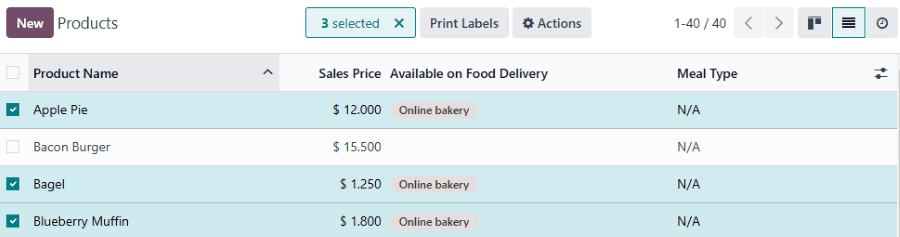
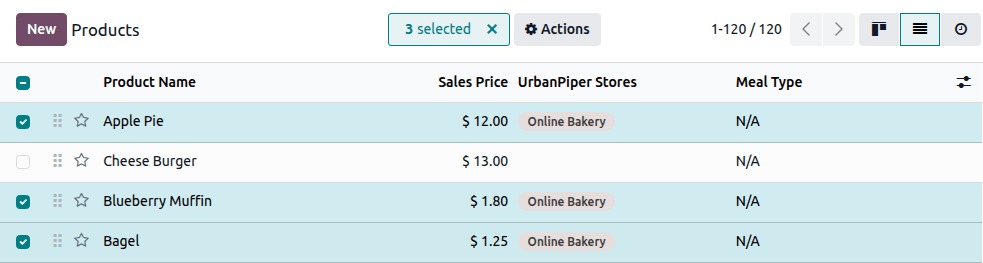
[IMP] pos: update UrbanPiper page for store configuration
This commit updates the UrbanPiper documentation to reflect the recent
store configuration flow changes introduced in odoo/enterprise#111749.

It also updates the list of supported providers and locations with the
latest supported countries and newly added providers.

Task-6427341

diff --git a/content/applications/sales/point_of_sale/restaurant/urban_piper.rst b/content/applications/sales/point_of_sale/restaurant/urban_piper.rst
@@ -21,31 +21,34 @@ Supported providers and locations:
          * - Providers
            - Locations
          * - `Deliveroo <https://deliveroo.co>`_
-           - Belgium, France, Ireland, Italy, Kuwait, United Arab Emirates, United Kingdom
+           - Belgium, France, Hong Kong (China), Ireland, Italy, Kuwait, Qatar, Singapore,
+             United Arab Emirates, United Kingdom, United States
          * - `DoorDash <https://www.doordash.com>`_
            - Australia, Canada, United States
          * - `Glovo <https://glovoapp.com/en>`_
-           - Armenia, Bosnia and Herzegovina, Bulgaria, Croatia, Côte d'Ivoire, Georgia, Italy,
-             Kazakhstan, Kenya, Kyrgyzstan, Moldova, Montenegro, Morocco, Nigeria, Poland, Portugal,
-             Romania, Serbia, Spain, Tunisia, Uganda, Ukraine
+           - Andorra, Armenia, Bosnia and Herzegovina, Bulgaria, Chile, Croatia, Georgia, Ghana,
+             Italy, Kazakhstan, Kenya, Kyrgyzstan, Moldova, Montenegro, Morocco, Nigeria, Poland,
+             Portugal, Romania, Serbia, Sierra Leone, Spain, Tunisia, Uganda, Ukraine
          * - `HungryPanda <https://www.hungrypanda.co>`_
            - Australia, Canada, France, Italy, Japan, New Zealand, Singapore, South Korea, United
              Kingdom, United States
          * - `Just Eat <https://www.just-eat.com>`_
-           - Austria, Belgium, Bulgaria, Canada, Denmark, Germany, Ireland, Israel, Italy,
-             Luxembourg, Poland, Slovakia, Spain, Switzerland, Netherlands, United Kingdom
+           - Australia, Austria, Belgium, Bulgaria, Canada, Denmark, France, Germany, Ireland,
+             Israel, Italy, Luxembourg, Poland, Slovakia, Spain, Switzerland, Netherlands,
+             United Kingdom, United States
          * - `Keeta <https://www.keeta-global.com/AE/en>`_
-           - Bahrain, Brazil, Hong Kong (China), Kuwait, Qatar, Saudi Arabia, United Arab Emirates
-         * - `UberEats <https://www.ubereats.com>`_
-           - Argentina, Australia, Belgium, Canada, Chile, Costa Rica, Denmark, Dominican Republic,
-             Ecuador, El Salvador, Finland, France, Germany, Guatemala, Ireland, Italy, Japan,
-             Kenya, Luxembourg, Mexico, Netherlands, New Zealand, Norway, Panama, Poland, Portugal,
-             South Africa, Spain, Sri Lanka, Sweden, Switzerland, Taiwan (ROC), United Kingdom,
-             United States
+           - Brazil, China, Hong Kong (China), Kuwait, Qatar, Saudi Arabia,
+             United Arab Emirates
+         * - `Uber Eats <https://www.ubereats.com>`_
+           - Australia, Belgium, Canada, Chile, Costa Rica, Dominican Republic,
+             Ecuador, El Salvador, France, Germany, Guatemala, Ireland, Italy,
+             Japan, Kenya, Luxembourg, Mexico, Netherlands, New Zealand, Panama,
+             Poland, Portugal, South Africa, Spain, Sri Lanka, Sweden,
+             Switzerland, Taiwan, United Kingdom, United States
          * - `Wolt <https://wolt.com>`_
            - Albania, Austria, Azerbaijan, Bulgaria, Croatia, Cyprus, Czech Republic, Denmark,
              Estonia, Finland, Georgia, Germany, Greece, Hungary, Iceland, Israel, Japan, Kazakhstan,
-             Kosovo, Latvia, Lithuania, Luxembourg, Malta, North Macedonia, Norway, Poland, Romania,
+             Latvia, Lithuania, Luxembourg, Malta, North Macedonia, Norway, Poland, Romania,
              Serbia, Slovakia, Slovenia, Sweden, Uzbekistan
 
    .. tab:: Regional and national providers: Americas
@@ -58,18 +61,21 @@ Supported providers and locations:
 
          * - Providers
            - Locations
-         * - `Grubhub <https://www.grubhub.com>`_
-           - United States
-         * - `Postmates <https://www.postmates.com>`_
-           - Puerto Rico, United States
          * - `ChowNow <https://get.chownow.com>`_
            - Canada, United States
+         * - `DiDi Food <https://www.didi-food.com/>`_
+           - Colombia, Costa Rica, Dominican Republic, Mexico, Peru
+         * - `Grubhub <https://www.grubhub.com>`_
+           - Australia, Austria, Belgium, Bulgaria, Canada, Switzerland, Germany,
+             Denmark, Spain, France, Ireland, Israel, Italy, Luxembourg,
+             Netherlands, New Zealand, Norway, Poland, Portugal, Romania, United
+             Kingdom, United States
+         * - `Postmates <https://www.postmates.com>`_
+           - United States
          * - `Rappi <https://www.rappi.com>`_
            - Argentina, Brazil, Chile, Colombia, Costa Rica, Ecuador, Mexico, Peru, Uruguay
          * - `SkipTheDishes <https://www.skipthedishes.com/en>`_
-           - Canada (Alberta, British Columbia, Manitoba, New Brunswick, Newfoundland and Labrador,
-             Northwest Territories, Nova Scotia, Ontario, Prince Edward Island, Quebec,
-             Saskatchewan, Yukon)
+           - Canada, United States
 
    .. tab:: Regional and national providers: Middle East and North Africa
 
@@ -82,25 +88,49 @@ Supported providers and locations:
          * - Providers
            - Locations
          * - `Careem <https://www.careem.com/en-AE>`_
-           - Egypt, Kuwait, Morocco, United Arab Emirates
+           - Jordan, Kuwait, Saudi Arabia, United Arab Emirates
          * - `Cari <https://www.cariapp.com>`_
            - Kuwait, Saudi Arabia, United Arab Emirates
          * - `EatEasy <https://www.eateasy.ae>`_
            - United Arab Emirates
+         * - `Enqueue <https://enqueue.tech>`_
+           - Saudi Arabia
+         * - `FoodZapp <https://spryntz.com>`_
+           - United Arab Emirates
          * - `HungerStation <https://hungerstation.com/sa-en>`_
            - Saudi Arabia (115+ regions)
+         * - `InstaShop <http://instashop.com>`_
+           - Egypt, United Arab Emirates
          * - `Jahez <https://www.jahez.net/index-en.html>`_
            - Bahrain, Kuwait, Saudi Arabia
+         * - `Mr Mandoob <https://mrmandoob.com>`_
+           - Saudi Arabia
          * - `Mrsool <https://mrsool.co>`_
-           - Bahrain, Egypt, Saudi Arabia
+           - Egypt, Saudi Arabia
          * - `Ninja <https://ananinja.com/sa/en>`_
-           - Bahrain, Kuwait, Qatar
+           - Bahrain, Kuwait, Qatar, Saudi Arabia, United Arab Emirates
          * - `NoonFood <https://food.noon.com/uae-en>`_
            - Saudi Arabia, United Arab Emirates
+         * - `Radyes <https://lyveglobal.com/>`_
+           - Bahrain, Egypt, India, Jordan, Kuwait, Oman, Qatar, Saudi Arabia,
+             United Arab Emirates
          * - `Rafeeq <https://www.gorafeeq.com/en>`_
            - Qatar
+         * - `Smiles <https://smiles.ae>`_
+           - United Arab Emirates
+         * - `Snoonu <https://www.snoonu.com>`_
+           - Kuwait, Oman, Qatar
+         * - `Talabna <https://talabnapp.com/>`_
+           - United Arab Emirates
          * - `Talabat <https://www.talabat.com/uae>`_
            - Bahrain, Egypt, Iraq, Jordan, Kuwait, Oman, Qatar, Saudi Arabia, United Arab Emirates
+         * - `The Chefz <https://thechefz.co>`_
+           - Saudi Arabia
+         * - `ToYou <https://toyou.io>`_
+           - Saudi Arabia
+         * - `Zyda <https://zyda.com>`_
+           - Bahrain, Egypt, Jordan, Kuwait, Oman, Qatar, Saudi Arabia,
+             United Arab Emirates
 
    .. tab:: Regional and national providers: Asia and Oceania
 
@@ -161,57 +191,74 @@ UrbanPiper credentials
 .. image:: urban_piper/urban-piper-api.png
    :alt: Atlas API access
 
-Point of Sale
--------------
+UrbanPiper Store
+----------------
 
-#. Enable the :guilabel:`Urban Piper` setting:
+Each point of sale is linked to a dedicated UrbanPiper store record that centralizes credentials,
+aggregators, pricing, and schedule-related settings.
 
-   #. Go to the :ref:`POS settings <pos/use/settings>`.
-   #. Scroll down to the :guilabel:`Food Delivery Connector` section.
-   #. Check the :guilabel:`Urban Piper` setting.
+#. Go to :menuselection:`Point of Sale --> Configuration --> UrbanPiper --> Stores`.
+#. Click :guilabel:`New`.
+#. On the store form:
 
-#. Set up UrbanPiper:
+   #. Enter a :guilabel:`Name`.
+   #. Select the :guilabel:`Point of Sale` that will receive online orders.
+   #. Keep the generated :guilabel:`POS Store ID` which links Odoo Store to UrbanPiper.
+   #. Select a :ref:`Preset<pos/urban_piper/Preset>`.
+   #. Set the :guilabel:`Preparation Time`.
+   #. Optionally upload an :guilabel:`Order Notification Sound` in `.mp3` format.
+   #. If the company is based in India, choose the appropriate :guilabel:`Tax Type`.
+#. Open the :guilabel:`Credentials` tab and enter your :ref:`UrbanPiper credentials
+   <pos/urban_piper/credentials>`.
+#. Open the :guilabel:`Aggregators` tab and add one line per delivery platform.
 
-   #. Fill in the :guilabel:`Username` and :guilabel:`Api Key` fields with your :ref:`UrbanPiper
-      credentials <pos/urban_piper/credentials>`.
-   #. Select the desired delivery providers in the :guilabel:`Food Delivery Platforms` field under
-      the :guilabel:`Urban Piper Location` section (i.e., Zomato, Uber Eats).
-#. Save the settings.
-#. Click the :guilabel:`+ Create Store` button. Doing so creates a new location on the UrbanPiper
-   Atlas platform.
+   - Use :guilabel:`Pricelist` to apply platform-specific pricing during menu synchronization.
+   - Disable :guilabel:`Create Customer` if Odoo should not create customer records for orders
+     received from the aggregator. In this case, Odoo will use the default customer of the
+     aggregator.
+
+#. Open the :guilabel:`Store Info` tab and confirm the :guilabel:`City`.
+#. Save, then click :guilabel:`Create Store`.
 
 .. note::
-   - The :guilabel:`Pricelist` and :guilabel:`Fiscal Position` fields are automatically selected
-     after saving.
-   - A successful store creation triggers a notification.
-   - The store creation process may take 2–3 minutes to reflect changes on the UrbanPiper Atlas
-     platform.
-   - The store is automatically named after your point of sale name.
+   - A point of sale can only be linked to one UrbanPiper store.
+   - Once the store is created, you can update it using the :guilabel:`Update Store` button.
+   - Store creation may take 2 to 3 minutes to appear in UrbanPiper Atlas.
 
 .. image:: urban_piper/create-store.png
-   :alt: Food delivery connector settings
+   :alt: UrbanPiper store configuration in Point of Sale settings
 
-Store timings
--------------
+.. _pos/urban_piper/Preset:
 
-Configure the store timings to define when the delivery services are available:
+Preset
+------
 
-#. Navigate to :menuselection:`Point of Sale --> Configuration --> Store Timings`.
-#. Add a new timing record by clicking :guilabel:`New` to add a line, or edit an existing line.
-#. Fill in the :guilabel:`Week Day`, :guilabel:`Starting Hour`, :guilabel:`Ending Hour`,
-   and :guilabel:`Point of Sale associated with this timing` columns.
+The store's :guilabel:`Preset` controls the default settings applied to incoming online orders.
+
+#. Select or create a preset dedicated to online food delivery store.
+#. Open the linked Preset by clicking the :icon:`oi-arrow-right` :guilabel:`(right arrow)` icon
+   to the right of the field.
+#. Configure the preset as needed:
+
+   - Set the :guilabel:`Pricelist` to change the product prices on the UrbanPiper menu.
+   - Set the :guilabel:`Fiscal Position`.
+   - If needed, enable :guilabel:`Manage orders by time` and configure the :guilabel:`Schedule`.
+
+.. tip::
+   Restaurant databases include an :guilabel:`Online Delivery` preset by default.
 
 Products
 --------
 
 To make products available individually,
 
-#. Go to :menuselection:`Point of Sale --> Products --> Products`.
+#. Navigate to the :guilabel:`UrbanPiper Store` and click the :icon:`fa-bars` :guilabel:`Menu` smart button.
 #. Select any product to open its product form.
 #. Go to the :guilabel:`Point of Sale` tab.
-#. Complete the :guilabel:`Urban Piper` section:
+#. Complete the :guilabel:`UrbanPiper` section:
 
-   - Fill in the :guilabel:`Available on Food Delivery` with the desired POS.
+   - Select one or more :guilabel:`UrbanPiper Stores`.
+   - Select the :guilabel:`Aggregators` where the product should be published.
    - Optionally, set up the :guilabel:`Meal Type` field and enable the :guilabel:`Is Recommended`
      and :guilabel:`Is Alcoholic` buttons.
 
@@ -220,10 +267,9 @@ To make products available individually,
 
 To make multiple products available for food delivery at once,
 
-#. Go to :menuselection:`Point of Sale --> Products --> Products`.
-#. Click the list icon (:icon:`oi-view-list`) to switch to the list view.
+#. Open the :guilabel:`product` list view.
 #. Select the products.
-#. Enter the desired POS in the :guilabel:`Available on Food Delivery` column.
+#. Enter the desired Stores in the :guilabel:`UrbanPiper Stores` column.
 
 .. image:: urban_piper/product-list.png
    :alt: Product list
@@ -238,12 +284,11 @@ Synchronization
 
 To make products available on food delivery platforms, synchronize with your UrbanPiper account:
 
-#. Go to the :ref:`POS settings <pos/use/settings>`.
-#. Scroll down the :guilabel:`Food Delivery Connector` section.
-#. Click the :guilabel:`Sync Menu` button.
+#. Open the UrbanPiper store.
+#. Click :guilabel:`Sync Menu`.
 
-   - The :guilabel:`Last Sync on` timestamp below the :guilabel:`Create Store` and :guilabel:`Sync
-     Menu` buttons updates.
+   - A Chatter note will appear confirming :guilabel:`Store menu successfully synced on UrbanPiper`,
+     along with the time of the menu sync.
 
 .. note::
    - A successful synchronization triggers a notification.
